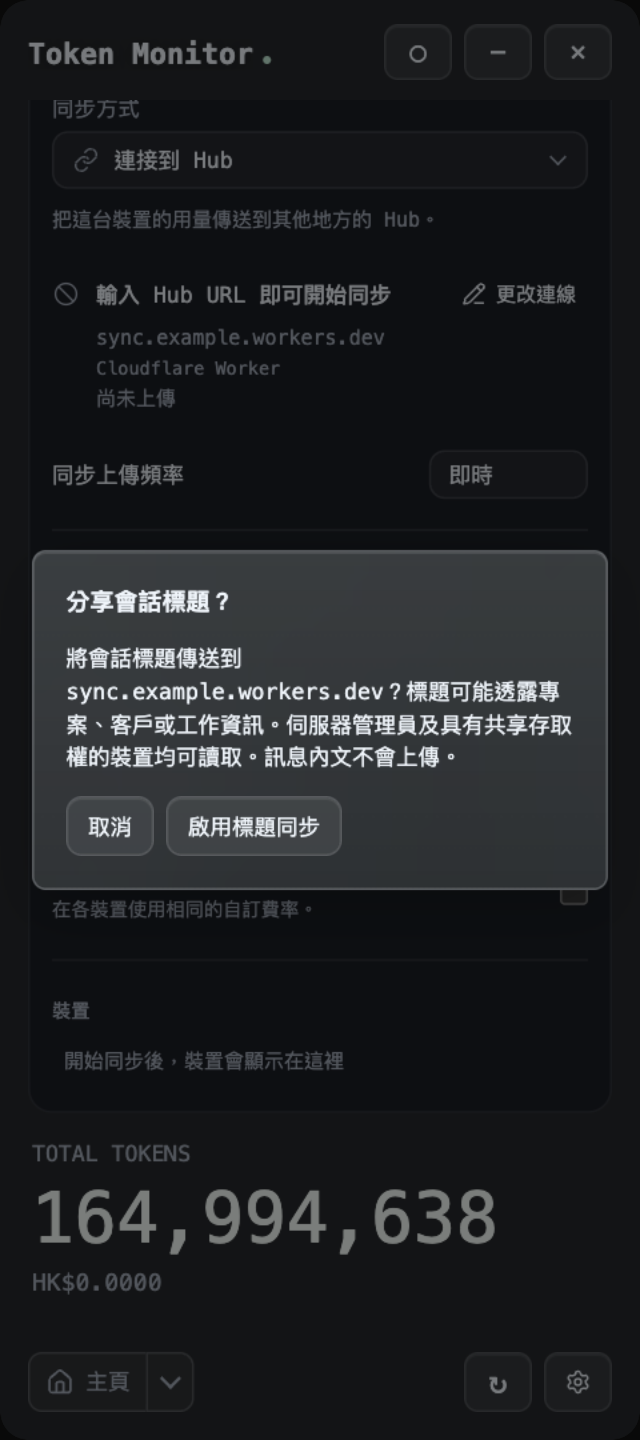
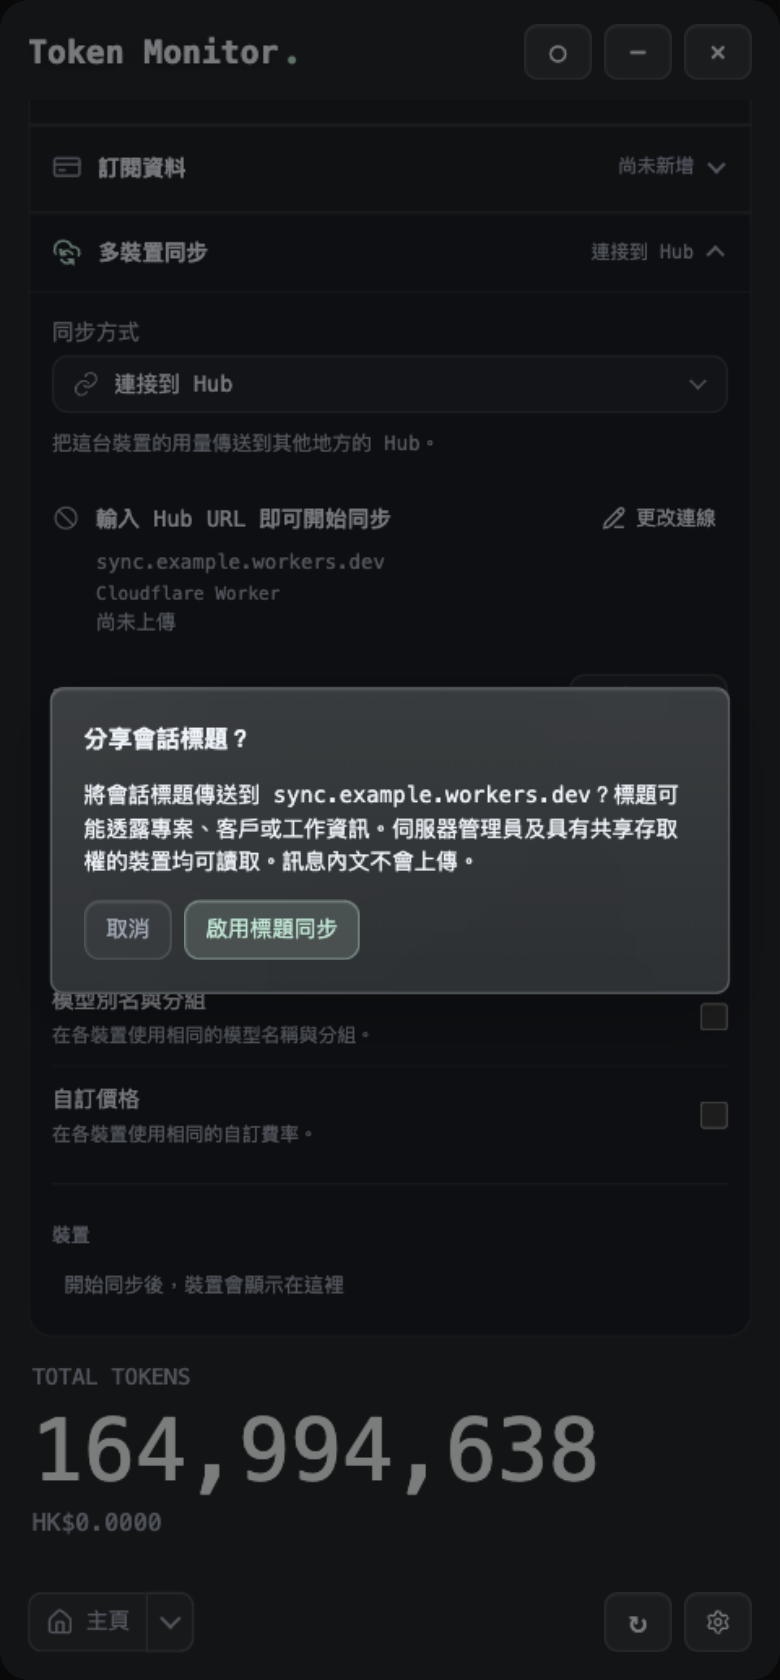
fix(sync): distinguish title consent from cancel action

diff --git a/src/electron/renderer/styles.css b/src/electron/renderer/styles.css
@@ -1749,6 +1749,10 @@ span.settings-note.settings-item-desc {
 .sync-content-dialog .settings-actions { flex-wrap: wrap; gap: 6px; }
 .sync-content-dialog button { min-height: 30px; padding: 5px 8px; border: 1px solid var(--line); border-radius: 6px; background: rgba(var(--overlay-rgb), var(--control-alpha)); color: var(--text); cursor: pointer; }
 .sync-content-dialog button:hover { background: rgba(var(--overlay-rgb), 0.12); }
+.sync-content-dialog #syncContentCancel { background: transparent; color: var(--muted); }
+.sync-content-dialog #syncContentCancel:hover:not(:disabled) { background: rgba(var(--overlay-rgb), 0.06); color: var(--text); }
+.sync-content-dialog button.sync-content-primary { border-color: rgba(var(--accent-rgb), 0.35); background: rgba(var(--accent-rgb), 0.12); color: var(--accent); }
+.sync-content-dialog button.sync-content-primary:hover:not(:disabled) { background: rgba(var(--accent-rgb), 0.2); border-color: rgba(var(--accent-rgb), 0.5); }
 .sync-content-dialog button:focus-visible { outline: 1px solid var(--accent); outline-offset: 2px; }
 .sync-content-dialog button:disabled { opacity: 0.5; cursor: not-allowed; }
 /* Connection summary and controls stay above the device list, without a nested card. */

diff --git a/src/electron/renderer/index.html b/src/electron/renderer/index.html
@@ -1605,7 +1605,7 @@
       <div class="settings-actions">
         <button id="syncContentCancel" type="button" data-i18n="settings.common.cancel" autofocus>Cancel</button>
         <button id="syncContentDialogRetry" type="button" data-i18n="settings.sync.content.retry" hidden>Reload sync status</button>
-        <button id="syncContentConfirm" type="button" data-i18n="settings.sync.content.enableTitles">Enable title sync</button>
+        <button id="syncContentConfirm" class="sync-content-primary" type="button" data-i18n="settings.sync.content.enableTitles">Enable title sync</button>
         <button id="syncContentUseServer" type="button" data-i18n="settings.sync.content.useServer">Use server settings</button>
         <button id="syncContentPublish" type="button" data-i18n="settings.sync.content.publish">Publish this device's settings</button>
       </div>
